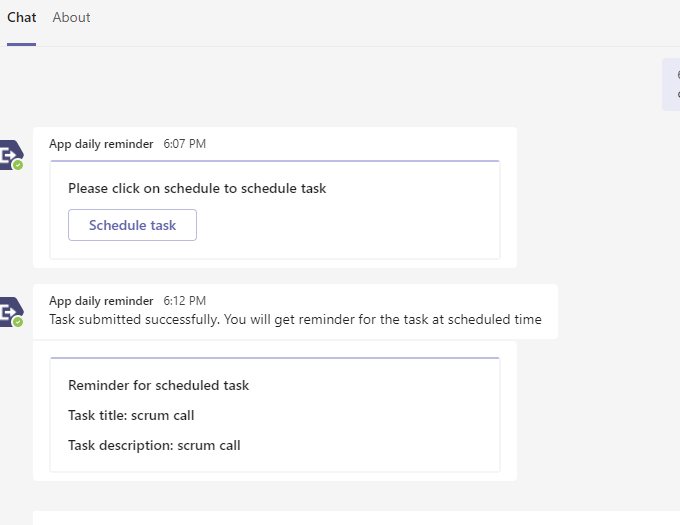
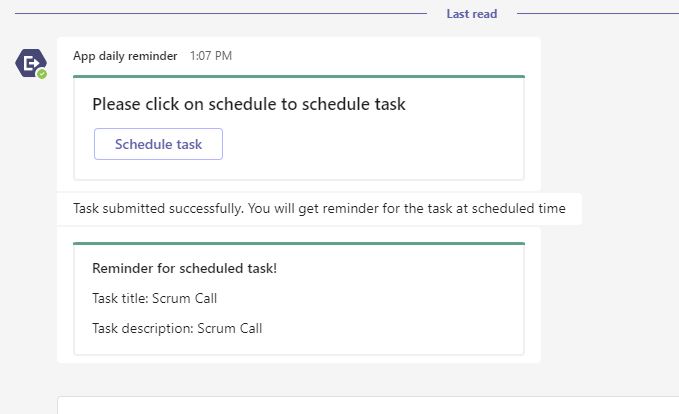
Ui changes

diff --git a/samples/bot-task-reminder/nodejs/bots/teamsBot.js b/samples/bot-task-reminder/nodejs/bots/teamsBot.js
@@ -34,6 +34,7 @@ class TeamsBot extends TeamsActivityHandler {
         });
     }
 
+    // Handle task module fetch.
     handleTeamsTaskModuleFetch(context, taskModuleRequest) {
         const cardTaskFetchId = taskModuleRequest.data.id;
         var taskInfo = {}; // TaskModuleTaskInfo
@@ -48,6 +49,7 @@ class TeamsBot extends TeamsActivityHandler {
         return TaskModuleResponseFactory.toTaskModuleResponse(taskInfo);
     }
 
+    // Handle task module submit action.
     async handleTeamsTaskModuleSubmit(context, taskModuleRequest) {
         // Create new object to save task details.
         let taskDetails = {
@@ -77,21 +79,23 @@ class TeamsBot extends TeamsActivityHandler {
                     body: [
                         {
                             type: "TextBlock",
-                            size: "Medium",
+                            size: "Default",
                             weight: "Bolder",
-                            text: "Reminder for scheduled task"
+                            text: "Reminder for scheduled task!"
                         },
                         {
                             type: "TextBlock",
-                            size: "Medium",
-                            weight: "Bolder",
-                            text: "Task title: " + taskDetails["taskDetails"].title
+                            size: "Default",
+                            weight: "Default",
+                            text: "Task title: " + taskDetails["taskDetails"].title,
+                            wrap: true
                         },
                         {
                             type: "TextBlock",
-                            size: "Medium",
-                            weight: "Bolder",
-                            text: "Task description: " + taskDetails["taskDetails"].description
+                            size: "Default",
+                            weight: "Default",
+                            text: "Task description: " + taskDetails["taskDetails"].description,
+                            wrap: true
                         },
                     ],
                     type: "AdaptiveCard",
@@ -116,7 +120,7 @@ class TeamsBot extends TeamsActivityHandler {
         body: [
             {
                 type: "TextBlock",
-                size: "Medium",
+                size: "Default",
                 weight: "Bolder",
                 text: "Please click on schedule to schedule task"
             },
